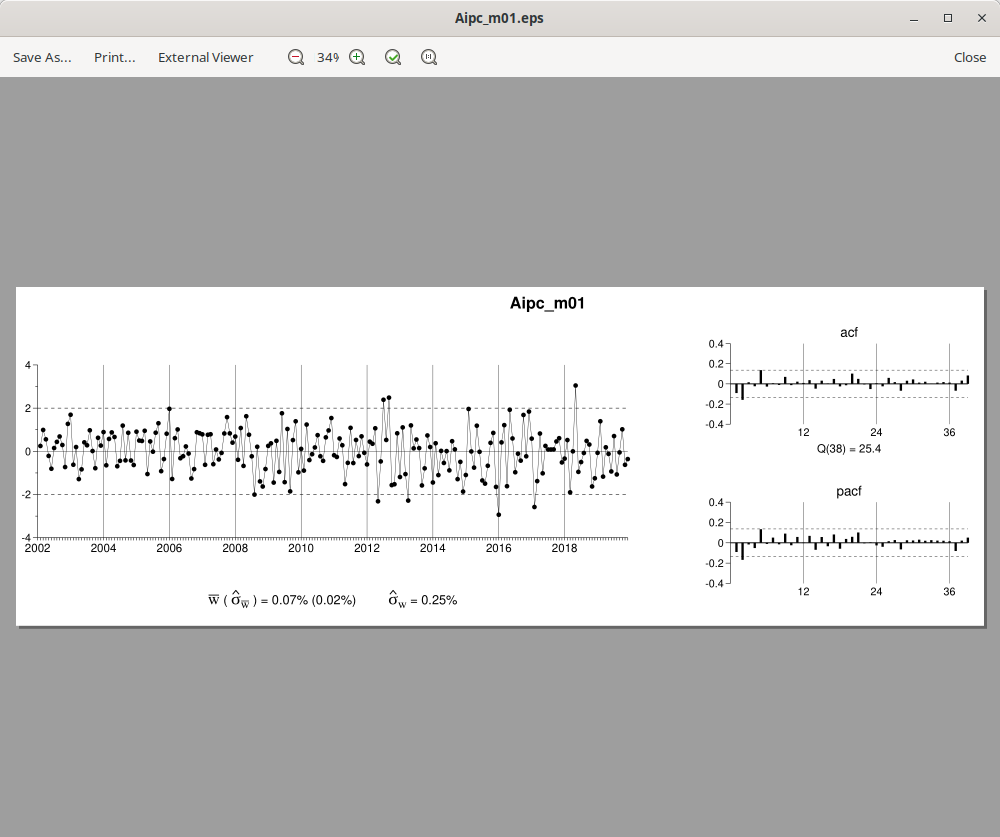
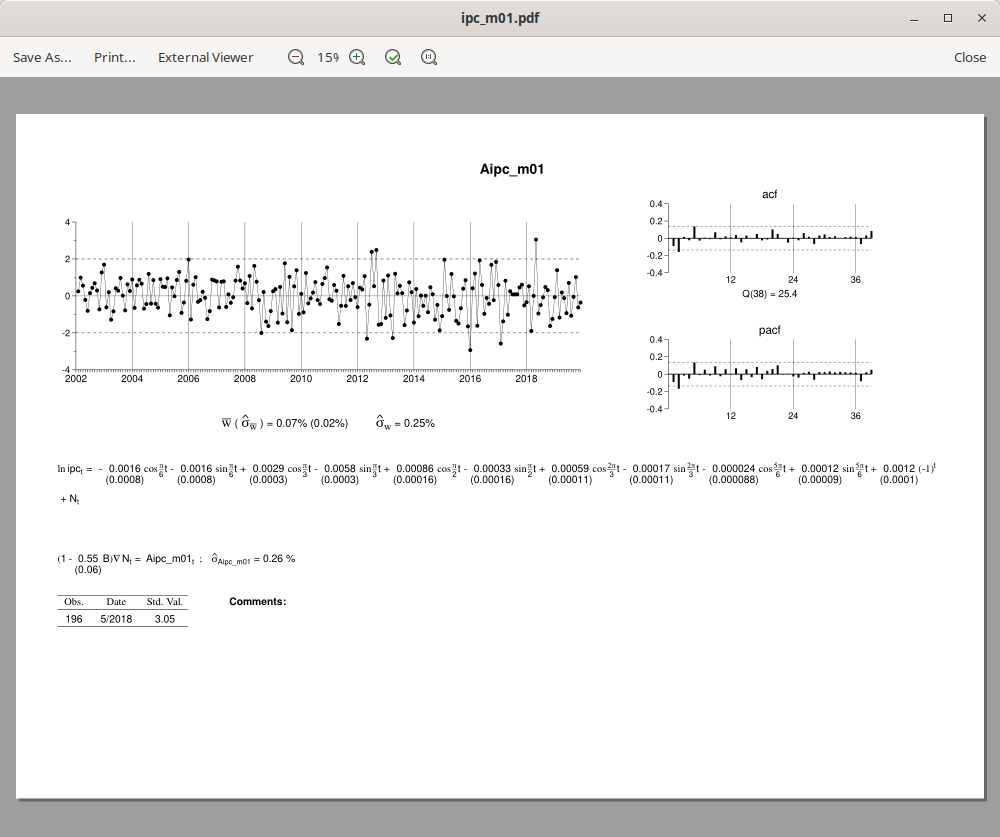
El taller: «Ver modelo…», el resumen del modelo estimado sin abrir fue
«Ver el grafico…» abria el Aipc_m01.eps de fue, que es solo el grafico:
los residuos con su ACF/PACF. El modelo estimado no se veia sin entrar en
fue_gui. Pero fue ya deja al estimar un resumen completo, ipc_m01.pdf
(report.c): el grafico, el modelo escrito debajo con la d.t. de cada
coeficiente y los residuos grandes. Ahora se abre ese, en la ventana de
graficos del taller; si no hay PDF (un fue anterior), el .eps.

El rotulo pasa a «Ver modelo…». Sigue apagado si el modelo no esta
estimado. La prueba conducida, la escena 02 y el manual, al dia.

diff --git a/gui/atsw/src/main.c b/gui/atsw/src/main.c
@@ -658,6 +658,26 @@ static int atsw_grafico_de( Atsw *a, const char *serie, const char *muestra,
     return ruta_componer( base, "A", NULL, out, n );
 }
 
+/* EL RESUMEN DEL MODELO ESTIMADO, para «Ver modelo…»: el
+ * PDF que fue escribe al estimar (ipc_m01.pdf, report.c) con el gráfico de
+ * residuos y su ACF/PACF, el modelo estimado escrito debajo con cada d.t., y
+ * la tabla de residuos grandes. El .eps de arriba es sólo el gráfico: era lo
+ * que se abría, y el modelo no se veía sin entrar en fue_gui. Si no hay PDF
+ * (un modelo estimado con un fue anterior), el .eps, que algo es.      */
+static int atsw_resumen_de( Atsw *a, const char *serie, const char *muestra,
+                            const char *id, char *out, size_t n )
+{
+    out[0] = '\0';
+    if ( pr_ruta( a->p, serie, muestra, id, ".pdf", out, n ) == 0 &&
+         g_file_test( out, G_FILE_TEST_EXISTS ) )
+        return 0;
+    if ( atsw_grafico_de( a, serie, muestra, id, out, n ) == 0 &&
+         g_file_test( out, G_FILE_TEST_EXISTS ) )
+        return 0;
+    out[0] = '\0';
+    return 1;
+}
+
 /* BORRAR UN MODELO, Y SUS FICHEROS CON EL.
  *
  * Dejar el .out en el disco despues de quitar el nodo seria una mentira con
@@ -777,8 +797,9 @@ static void on_prever( GtkMenuItem *m, Atsw *a )
     atsw_lanza_con( a, "fue_gui", "--prever", f );
 }
 
-/* «VER EL GRAFICO…»: el de fue, en la ventana de graficos, sin abrir
-   fue_gui. Solo se ofrece encendido con el modelo estimado.          */
+/* «VER MODELO…»: el resumen que fue deja al estimar
+   (atsw_resumen_de), en la ventana de graficos, sin abrir fue_gui. Solo
+   se ofrece encendido con el modelo estimado.                        */
 static void on_grafico( GtkMenuItem *m, Atsw *a )
 {
     gchar *id = atsw_marcada( a->l_modelos, M_ID );
@@ -786,8 +807,7 @@ static void on_grafico( GtkMenuItem *m, Atsw *a )
 
     (void) m;
     if ( !a->hay || !a->serie[0] || !id ) { g_free( id ); return; }
-    if ( atsw_grafico_de( a, a->serie, atsw_muestra_actual( a ), id, f, sizeof f ) != 0 ||
-         !g_file_test( f, G_FILE_TEST_EXISTS ) )
+    if ( atsw_resumen_de( a, a->serie, atsw_muestra_actual( a ), id, f, sizeof f ) != 0 )
         {
         gchar *t = g_strdup_printf( "Todavía no hay gráfico de %s: sale al estimar.", id );
         barra_pub( a, t );
@@ -1140,14 +1160,14 @@ static void menu_modelo( Atsw *a, GdkEventButton *ev )
         {
         char     f[PR_RUTA];
         gboolean hay = listo &&
-            atsw_grafico_de( a, a->serie, atsw_muestra_actual( a ), id, f, sizeof f ) == 0 &&
-            g_file_test( f, G_FILE_TEST_EXISTS );
+            atsw_resumen_de( a, a->serie, atsw_muestra_actual( a ), id, f, sizeof f ) == 0;
 
-        mi = gtk_menu_item_new_with_label( "Ver el gráfico…" );
+        mi = gtk_menu_item_new_with_label( "Ver modelo…" );
         gtk_widget_set_sensitive( mi, hay );
         gtk_widget_set_tooltip_text( mi, hay
-            ? "Los residuos con su ACF y su PACF, y el modelo escrito debajo: "
-              "el gráfico que fue dejó al estimar, sin abrir fue_gui."
+            ? "Los residuos con su ACF y su PACF, el modelo estimado escrito "
+              "debajo con sus desviaciones típicas, y los residuos grandes: el "
+              "resumen que fue dejó al estimar, sin abrir fue_gui."
             : listo ? "fue no dejó el gráfico de este modelo: vuelve a estimarlo."
                     : porque );
         g_signal_connect( mi, "activate", G_CALLBACK(on_grafico), a );

diff --git a/gui/atsw/tests/test_gui.c b/gui/atsw/tests/test_gui.c
@@ -1750,10 +1750,10 @@ static void editor( void )
         check( dx && !gtk_widget_get_sensitive( dx ),
                "sin estimar, «Diagnosis…» esta apagada", e );
         {
-        GtkWidget *gx = entrada_de( m, "Ver el gráfico" );
+        GtkWidget *gx = entrada_de( m, "Ver modelo" );
 
         check( gx && !gtk_widget_get_sensitive( gx ),
-               "sin estimar, «Ver el gráfico…» esta apagado", e );
+               "sin estimar, «Ver modelo…» esta apagado", e );
         }
         if ( dx )
             {
@@ -1982,7 +1982,7 @@ static void caben_todas( const char *donde )
 /* EL MENU DEL MODELO ESTIMADO: diagnosis, ganancia, anomalos, prever. */
 static void menu_modelo_prueba( void )
 {
-    static const char *ent[] = { "Ver el gráfico", "Diagnosis", "Ganancia", "Anómalos" };
+    static const char *ent[] = { "Ver modelo", "Diagnosis", "Ganancia", "Anómalos" };
     int i;
 
     for ( i = 0; i < 4; i++ )
@@ -1992,11 +1992,11 @@ static void menu_modelo_prueba( void )
         int        antes = cuenta_visibles();
         gchar     *q;
 
-        /* El grafico va a la ventana de graficos, que se reutiliza: se
+        /* El resumen va a la ventana de graficos, que se reutiliza: se
            cierra antes para ver que este gesto la abre.               */
-        if ( i == 0 && ventana_titulada( "Aipc_m01.eps" ) )
+        if ( i == 0 && ventana_titulada( "ipc_m01.pdf" ) )
             {
-            gtk_widget_destroy( GTK_WIDGET(ventana_titulada( "Aipc_m01.eps" )) );
+            gtk_widget_destroy( GTK_WIDGET(ventana_titulada( "ipc_m01.pdf" )) );
             pump( 100 );
             antes = cuenta_visibles();
             }
@@ -2014,8 +2014,9 @@ static void menu_modelo_prueba( void )
         check( cuenta_visibles() > antes || historial->len > 0, q, todo_lo_dicho() );
         g_free( q );
         if ( i == 0 )
-            check( ventana_titulada( "Aipc_m01.eps" ) != NULL,
-                   "«Ver el gráfico…» enseña el Aipc_m01.eps de fue", NULL );
+            check( ventana_titulada( "ipc_m01.pdf" ) != NULL,
+                   "«Ver modelo…» enseña el resumen de fue, ipc_m01.pdf: "
+                   "el grafico de residuos con el modelo escrito", NULL );
         }
     check( ventana_titulada( "Diagnosis — ipc / m01" ) != NULL,
            "la diagnosis de m01 es una ventana con su titulo", NULL );

diff --git a/docs/manual/MANUAL.md b/docs/manual/MANUAL.md
@@ -387,9 +387,12 @@ general s, 2s, 3s y 3s + 3). El veredicto lo da el último, el más exigente. Si
 una Q rechaza, no dice *qué* retardo falla: eso lo dicen las barras de la ACF
 residual que se salen de la banda ±2/√n.
 
-**Ver el gráfico…** dibuja los residuos con su ACF y PACF:
+**Ver modelo…** enseña el resumen del modelo estimado, sin abrir fue: los
+residuos con su ACF y PACF, el modelo escrito debajo con la desviación típica
+de cada coeficiente, y los residuos grandes. Sólo se enciende cuando el modelo
+está estimado.
 
-![Residuos de m01](img/ipc-m01-grafico.png)
+![Residuos y modelo de m01](img/ipc-m01-grafico.png)
 
 ### Los parámetros que no se ganan su sitio
 
